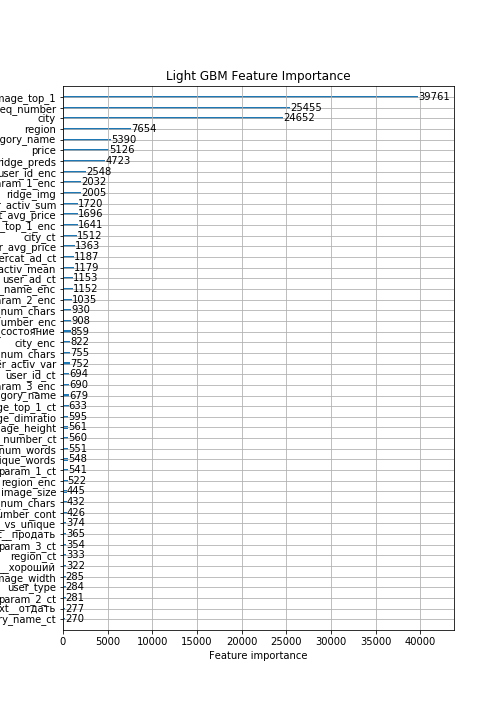
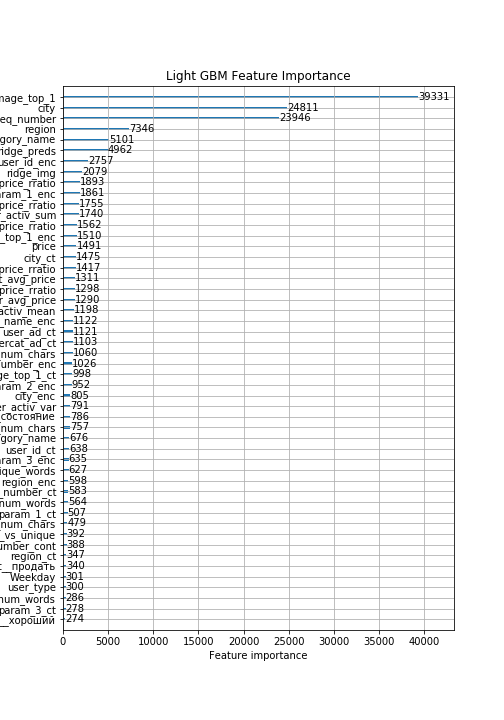
Price ratios

diff --git a/lgb/lb_2405D.py b/lgb/lb_2405D.py
@@ -26,7 +26,7 @@ path = "/home/darragh/avito/data/"
 
 # path = '/home/ubuntu/avito/data/'
 start_time = time.time()
-full = False
+full = True
 
 print('[{}] Load Train/Test'.format(time.time() - start_time))
 traindf = pd.read_csv(path + 'train.csv.zip', index_col = "item_id", parse_dates = ["activation_date"], compression = 'zip')
@@ -294,15 +294,63 @@ else:
 f, ax = plt.subplots(figsize=[7,10])
 lgb.plot_importance(lgb_clf, max_num_features=50, ax=ax)
 plt.title("Light GBM Feature Importance")
-plt.savefig(path + '../plots/feature_import_2405.png')
+plt.savefig(path + '../plots/feature_import_2405D.png')
 
 print("Model Evaluation Stage")
 print('RMSE:', np.sqrt(metrics.mean_squared_error(y_valid, lgb_clf.predict(X_valid))))
 lgpred = lgb_clf.predict(testing)
 lgsub = pd.DataFrame(lgpred,columns=["deal_probability"],index=testdex)
 lgsub['deal_probability'].clip(0.0, 1.0, inplace=True) # Between 0 and 1
-lgsub.to_csv("../sub/lgsub_2405.csv.gz",index=True,header=True, compression = 'gzip')
+lgsub.to_csv("../sub/lgsub_2405D.csv.gz",index=True,header=True, compression = 'gzip')
 print("Model Runtime: %0.2f Minutes"%((time.time() - modelstart)/60))
+
+'''
+[20]    train's rmse: 0.240894  valid's rmse: 0.238847
+[40]    train's rmse: 0.229728  valid's rmse: 0.228536
+[60]    train's rmse: 0.223627  valid's rmse: 0.223319
+[80]    train's rmse: 0.219795  valid's rmse: 0.220408
+[100]   train's rmse: 0.217055  valid's rmse: 0.218666
+[120]   train's rmse: 0.215143  valid's rmse: 0.21765
+[140]   train's rmse: 0.213463  valid's rmse: 0.216999
+[160]   train's rmse: 0.212091  valid's rmse: 0.216544
+[180]   train's rmse: 0.210888  valid's rmse: 0.21626
+[200]   train's rmse: 0.209772  valid's rmse: 0.21605
+[220]   train's rmse: 0.208746  valid's rmse: 0.215867
+[240]   train's rmse: 0.207839  valid's rmse: 0.215704
+[260]   train's rmse: 0.2069    valid's rmse: 0.215584
+[280]   train's rmse: 0.20607   valid's rmse: 0.215431
+[300]   train's rmse: 0.205233  valid's rmse: 0.215324
+[320]   train's rmse: 0.204475  valid's rmse: 0.215227
+[340]   train's rmse: 0.2038    valid's rmse: 0.21515
+[360]   train's rmse: 0.203135  valid's rmse: 0.215087
+[380]   train's rmse: 0.202474  valid's rmse: 0.21501
+[400]   train's rmse: 0.201839  valid's rmse: 0.214936
+[420]   train's rmse: 0.201252  valid's rmse: 0.214885
+[440]   train's rmse: 0.200643  valid's rmse: 0.21485
+[460]   train's rmse: 0.200045  valid's rmse: 0.214827
+[480]   train's rmse: 0.199519  valid's rmse: 0.214779
+[500]   train's rmse: 0.198991  valid's rmse: 0.214759
+[520]   train's rmse: 0.198507  valid's rmse: 0.214708
+[540]   train's rmse: 0.198042  valid's rmse: 0.21468
+[560]   train's rmse: 0.197555  valid's rmse: 0.214668
+[580]   train's rmse: 0.197079  valid's rmse: 0.214654
+[600]   train's rmse: 0.196643  valid's rmse: 0.214631
+[620]   train's rmse: 0.196199  valid's rmse: 0.214625
+[640]   train's rmse: 0.195775  valid's rmse: 0.214619
+[660]   train's rmse: 0.195338  valid's rmse: 0.214612
+[680]   train's rmse: 0.194935  valid's rmse: 0.21459
+[700]   train's rmse: 0.194544  valid's rmse: 0.214578
+[720]   train's rmse: 0.194192  valid's rmse: 0.214563
+[740]   train's rmse: 0.193801  valid's rmse: 0.214555
+[760]   train's rmse: 0.19344   valid's rmse: 0.214554
+[780]   train's rmse: 0.193087  valid's rmse: 0.21454
+[800]   train's rmse: 0.192741  valid's rmse: 0.214532
+[820]   train's rmse: 0.19243   valid's rmse: 0.214526
+[840]   train's rmse: 0.192116  valid's rmse: 0.214521
+[860]   train's rmse: 0.191798  valid's rmse: 0.214527
+Early stopping, best iteration is:
+[844]   train's rmse: 0.19206   valid's rmse: 0.214519
+'''
 
 
 '''

diff --git a/README.md b/README.md
@@ -4,6 +4,7 @@
 ```
 Model         Small Val          5CV Val            Leaderboard     Comment
 ================================================================================================
+lgb_2405D     0.2145             ??????             0.2204          Price ratios over category/title   
 lgb_2405      0.2152             ??????             0.2211          pymorph on text
 lgb_2205      0.2153             ??????             0.2213          Add oof ridge feature on text data and image data.
 rnn_2205      0.2149             ??????             0.2215          Russian text processing
